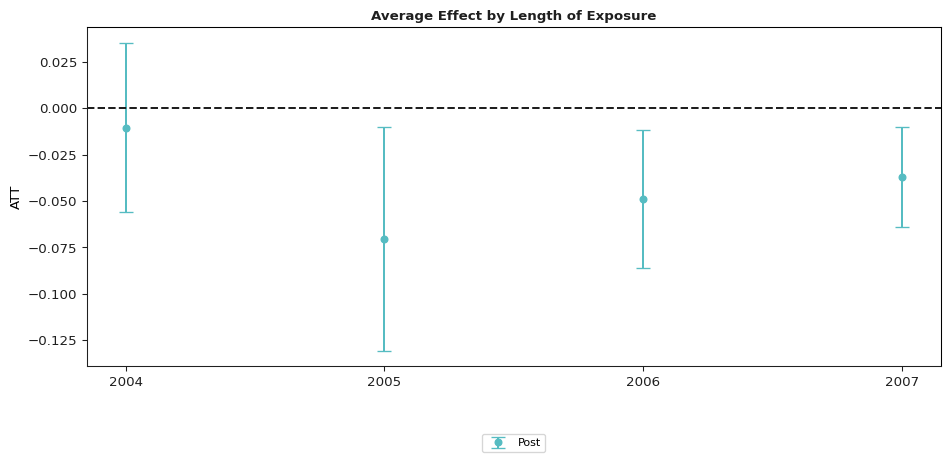
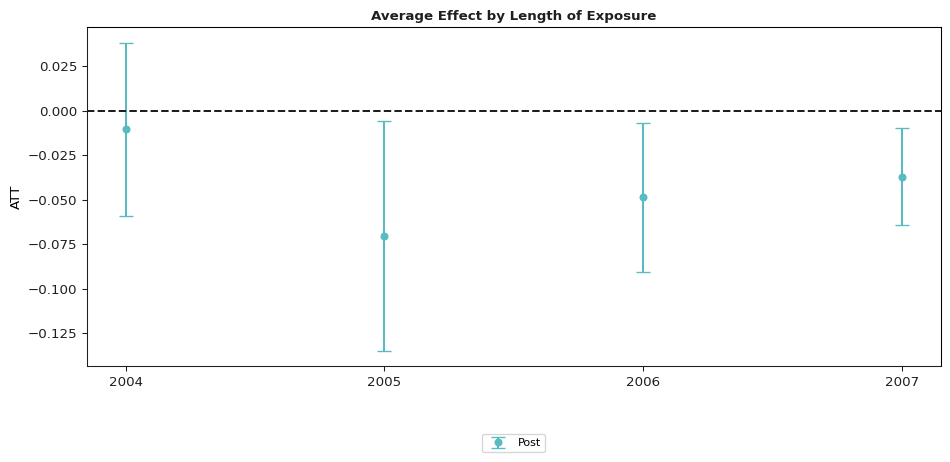
Update Readme

diff --git a/README.md b/README.md
@@ -127,18 +127,18 @@ out.summ_attgt().summary2
 
 |     | Group | Time | ATT(g, t) | Post | Std. Error | \[95% Pointwise | Conf. Band\] |     |
 |-----|-------|------|-----------|------|------------|-----------------|--------------|-----|
-| 0   | 2004  | 2004 | -0.0105   | 0    | 0.0226     | -0.0733         | 0.0522       |     |
-| 1   | 2004  | 2005 | -0.0704   | 0    | 0.0319     | -0.1590         | 0.0182       |     |
-| 2   | 2004  | 2006 | -0.1373   | 0    | 0.0376     | -0.2415         | -0.0330      | \*  |
-| 3   | 2004  | 2007 | -0.1008   | 0    | 0.0356     | -0.1996         | -0.0020      | \*  |
-| 4   | 2006  | 2004 | 0.0065    | 0    | 0.0225     | -0.0558         | 0.0688       |     |
-| 5   | 2006  | 2005 | -0.0028   | 0    | 0.0191     | -0.0556         | 0.0501       |     |
-| 6   | 2006  | 2006 | -0.0046   | 0    | 0.0172     | -0.0522         | 0.0430       |     |
-| 7   | 2006  | 2007 | -0.0412   | 0    | 0.0212     | -0.1000         | 0.0176       |     |
-| 8   | 2007  | 2004 | 0.0305    | 0    | 0.0163     | -0.0146         | 0.0756       |     |
-| 9   | 2007  | 2005 | -0.0027   | 0    | 0.0167     | -0.0489         | 0.0435       |     |
-| 10  | 2007  | 2006 | -0.0311   | 0    | 0.0179     | -0.0807         | 0.0185       |     |
-| 11  | 2007  | 2007 | -0.0261   | 0    | 0.0166     | -0.0720         | 0.0199       |     |
+| 0   | 2004  | 2004 | -0.0105   | 0    | 0.0239     | -0.0739         | 0.0529       |     |
+| 1   | 2004  | 2005 | -0.0704   | 0    | 0.0340     | -0.1606         | 0.0198       |     |
+| 2   | 2004  | 2006 | -0.1373   | 0    | 0.0399     | -0.2432         | -0.0313      | \*  |
+| 3   | 2004  | 2007 | -0.1008   | 0    | 0.0368     | -0.1985         | -0.0032      | \*  |
+| 4   | 2006  | 2004 | 0.0065    | 0    | 0.0229     | -0.0543         | 0.0673       |     |
+| 5   | 2006  | 2005 | -0.0028   | 0    | 0.0213     | -0.0591         | 0.0536       |     |
+| 6   | 2006  | 2006 | -0.0046   | 0    | 0.0188     | -0.0544         | 0.0452       |     |
+| 7   | 2006  | 2007 | -0.0412   | 0    | 0.0193     | -0.0923         | 0.0099       |     |
+| 8   | 2007  | 2004 | 0.0305    | 0    | 0.0159     | -0.0116         | 0.0726       |     |
+| 9   | 2007  | 2005 | -0.0027   | 0    | 0.0155     | -0.0439         | 0.0384       |     |
+| 10  | 2007  | 2006 | -0.0311   | 0    | 0.0178     | -0.0783         | 0.0161       |     |
+| 11  | 2007  | 2007 | -0.0261   | 0    | 0.0167     | -0.0705         | 0.0183       |     |
 
 </div>
 
@@ -166,15 +166,15 @@ out.aggte(typec='calendar');
 
     Overall summary of ATT's based on calendar time aggregation:
         ATT Std. Error  [95.0%  Conf. Int.]  
-    -0.0417     0.0175 -0.0759      -0.0075 *
+    -0.0417     0.0167 -0.0745      -0.0089 *
 
 
     Time Effects (calendar):
        Time  Estimate  Std. Error  [95.0% Simult.   Conf. Band   
-    0  2004   -0.0105      0.0233          -0.0562      0.0352   
-    1  2005   -0.0704      0.0308          -0.1308     -0.0100  *
-    2  2006   -0.0488      0.0190          -0.0860     -0.0117  *
-    3  2007   -0.0371      0.0137          -0.0638     -0.0103  *
+    0  2004   -0.0105      0.0247          -0.0590      0.0380   
+    1  2005   -0.0704      0.0329          -0.1350     -0.0059  *
+    2  2006   -0.0488      0.0214          -0.0908     -0.0068  *
+    3  2007   -0.0371      0.0139          -0.0643     -0.0098  *
     ---
     Signif. codes: `*' confidence band does not cover 0
     Control Group:  Never Treated , 
